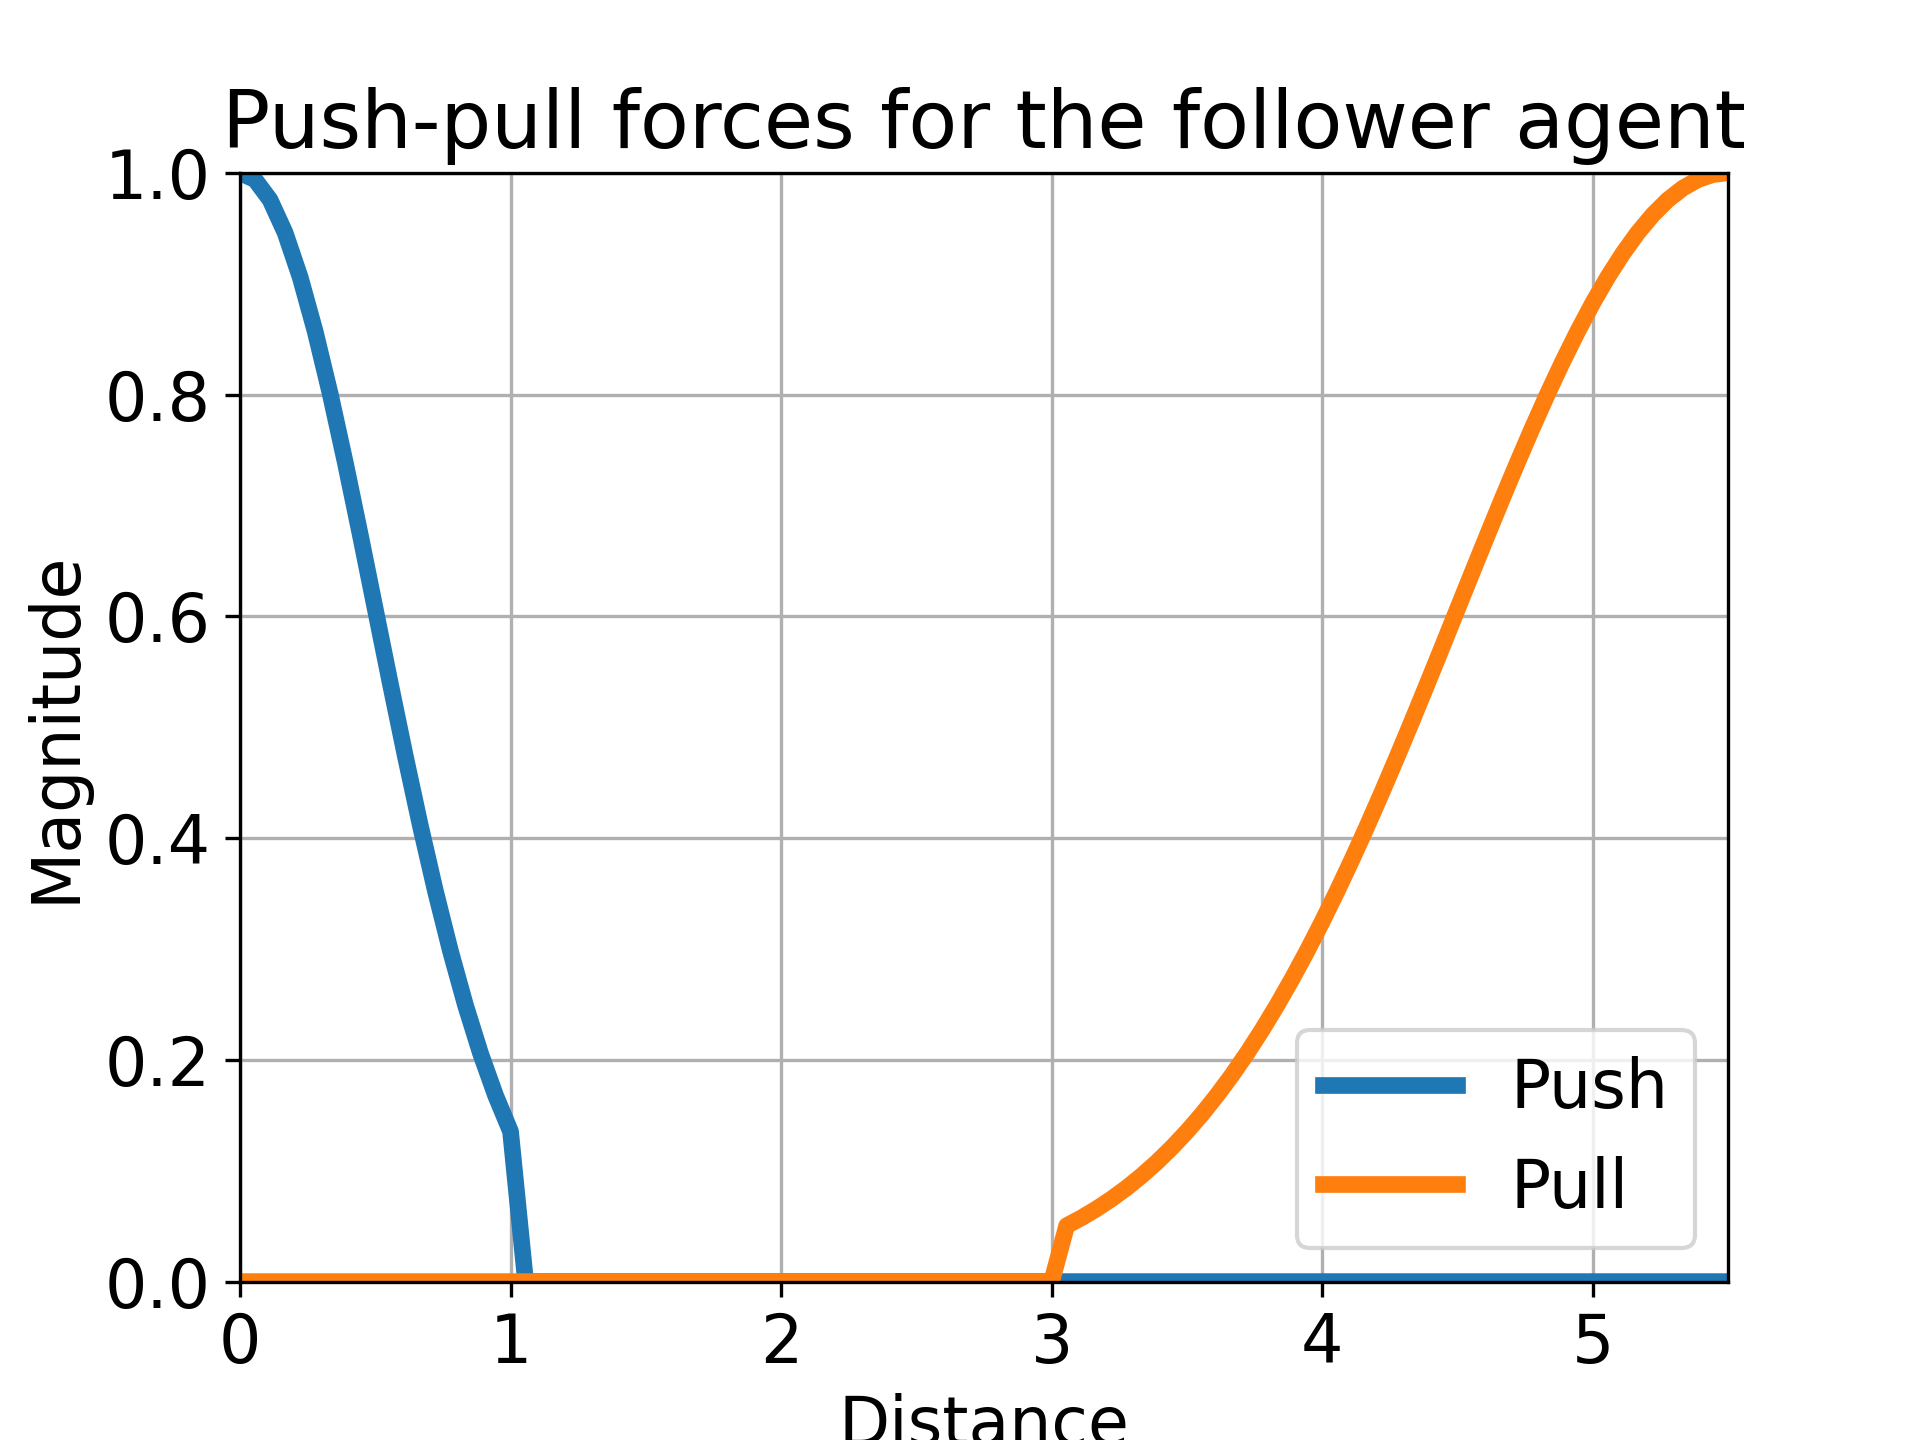
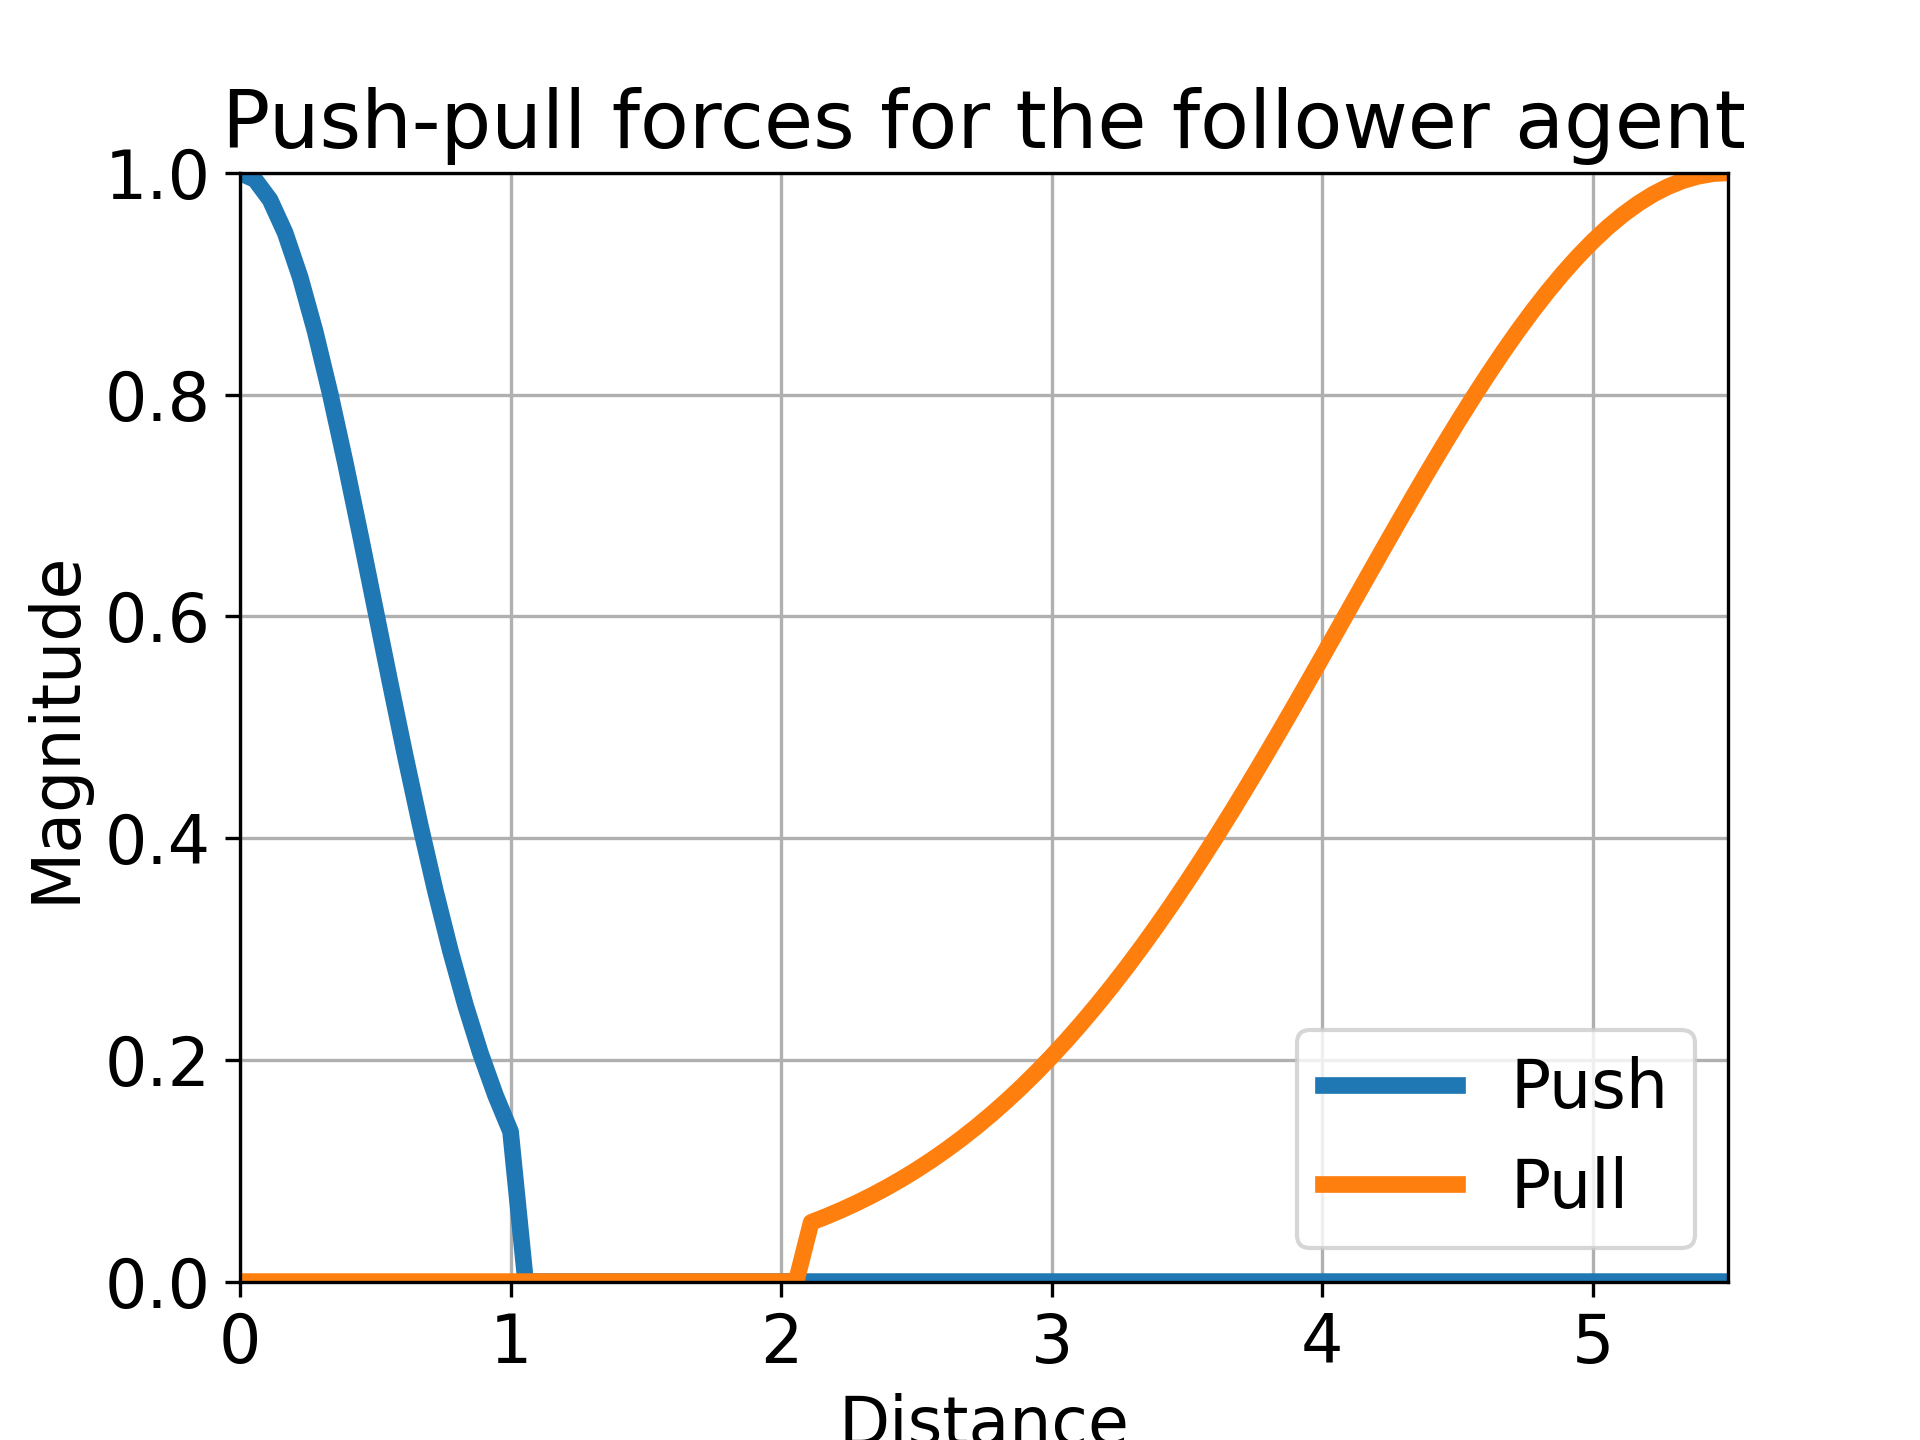
Turn left and turn right now only change the robot's orientation rather than it's orientation and position

diff --git a/experiments/controllers/footbot_follow/footbot_follow.cpp b/experiments/controllers/footbot_follow/footbot_follow.cpp
@@ -39,8 +39,7 @@ void FootbotFollow::Init(TConfigurationNode &t_node) {
                 std::make_tuple(State::WANDER, Action::STOP),
                 std::make_tuple(State::FOLLOW, Action::STOP),
                 std::make_tuple(State::DIR_LEFT, Action::STOP),
-                std::make_tuple(State::DIR_RIGHT, Action::STOP),
-                std::make_tuple(State::SEARCH, Action::STOP)
+                std::make_tuple(State::DIR_RIGHT, Action::STOP)
         };
         std::vector<std::tuple<State, Action, double>> rewards = {
                 std::make_tuple(State::WANDER, Action::FORWARD, 0.2),
@@ -105,13 +104,13 @@ void FootbotFollow::ControlStep() {
         }
     }
     fpushVector = -fpushVector;
-    fpushVector.clampLength(0, 1);
-    fpullVector.clampLength(0, 1);
+    fpushVector.clampZeroAndMax(1);
+    fpullVector.clampZeroAndMax(1);
     ql::Vector directionVector = fpullVector * ALPHA_PULL + fpushVector * BETA_PUSH;
+    directionVector.clampZeroAndMax(1);
     bool isDirZero = directionVector.isZero();
 
-    bool isWander = isDirZero && !isTargetSeen && mPrevState != State::FOLLOW;
-    bool isSearch = mPrevState == State::FOLLOW && isDirZero && !isTargetSeen;
+    bool isWander = isDirZero && !isTargetSeen;
     bool isFollow = directionVector.getAbsAngle() <= FORWARD_ANGLE && !isDirZero && !isAtGoal;
     bool isDirLeft = directionVector.getAngle() > FORWARD_ANGLE &&
                      directionVector.getAngle() <= SIDE_ANGLE && !isDirZero && !isAtGoal;
@@ -120,11 +119,9 @@ void FootbotFollow::ControlStep() {
     bool isIdle = isDirZero && isTargetSeen || isAtGoal;
 
     CColor ledColor = CColor::WHITE;
-    bool negateVelocity = false;
     if (isWander) {
         state = State::WANDER;
         ledColor = state.getLedColor();
-        negateVelocity = true;
     } else if (isFollow) {
         state = State::FOLLOW;
         if (isTargetSeen) {
@@ -145,9 +142,6 @@ void FootbotFollow::ControlStep() {
         } else {
             ledColor = CColor::GREEN;
         }
-    } else if (isSearch) {
-        state = State::SEARCH;
-        ledColor = state.getLedColor();
     }
     mLed->SetAllColors(ledColor);
     epoch++;
@@ -164,31 +158,19 @@ void FootbotFollow::ControlStep() {
             mQLearner->setLearningRate(0);
             mLearnedEpoch = epoch;
         }
-        if (mQLearner->getLearningRate() > 0.05f && epoch % 300 == 0) {
+        if (mQLearner->getLearningRate() > 0.05f && epoch % 200 == 0) {
             mQLearner->setLearningRate(mQLearner->getLearningRate() - 0.05f);
         }
 
     }
 
     Action action = (parStage == StageHelper::Stage::EXPLOIT) ? mQExploiter->exploit(state) : mQLearner->doubleQ(mPrevState, state);
-
-//    if (state == State::WANDER) {
-//        if (drand48() > 0.7f) {
-//            if (drand48() > 0.5f) {
-//                action = Action::TURN_LEFT;
-//            } else {
-//                action = Action::TURN_RIGHT;
-//            }
-//        }
-//    }
-
     mPrevState = state;
 
-    double velocityFactor = 1;
     std::array<double, 2> wheelSpeeds = action.getWheelSpeed();
 
-    wheelSpeeds[0] = wheelSpeeds[0] * parWheelVelocity * velocityFactor;
-    wheelSpeeds[1] = wheelSpeeds[1] * parWheelVelocity * velocityFactor;
+    wheelSpeeds[0] = wheelSpeeds[0] * parWheelVelocity;
+    wheelSpeeds[1] = wheelSpeeds[1] * parWheelVelocity;
 
     mDiffSteering->SetLinearVelocity(wheelSpeeds[0], wheelSpeeds[1]);
 
@@ -200,10 +182,12 @@ void FootbotFollow::ControlStep() {
             LOG << "Learning rate: " << mQLearner->getLearningRate() << std::endl;
         }
         LOG << "Id: " << this->m_strId << std::endl;
-        LOG << "Stage: " << parStage << std::endl;
         LOG << "Direction: " << directionVector.getLength() << std::endl;
-        LOG << "VelocityFactor: " << velocityFactor << std::endl;
-        LOG << "Learned epoch: " << mLearnedEpoch << std::endl;
+        LOG << "Dir angle: " << directionVector.getAngle() << std::endl;
+        LOG << "Push: " << fpushVector.getLength() * BETA_PUSH << std::endl;
+        LOG << "Push angle: " << fpushVector.getAngle() << std::endl;
+        LOG << "Pull: " << fpullVector.getLength() * ALPHA_PULL << std::endl;
+        LOG << "Pull angle: " << fpullVector.getAngle() << std::endl;
         LOG << "Action taken: " << action.getName() << std::endl;
         LOG << "State: " << state.getName() << std::endl;
         LOG << "---------------------------------------------" << std::endl;

diff --git a/experiments/controllers/footbot_follow/footbot_follow.h b/experiments/controllers/footbot_follow/footbot_follow.h
@@ -66,8 +66,8 @@ private:
 
     constexpr int static PROX_READING_PER_SIDE = 4;
 
-    constexpr double static ALPHA_PULL = 0.4f;
-    constexpr double static BETA_PUSH = 0.6f;
+    constexpr double static ALPHA_PULL = 0.5f;
+    constexpr double static BETA_PUSH = 0.5f;
 
     // The push gauss curve's centre point is the robot
     constexpr double static B_PUSH = 0.0f;
@@ -76,7 +76,7 @@ private:
     // Width of the gauss curve for pushing forces
     constexpr double static C_PUSH = 0.5;
     // Width of the gauss curve for pulling forces
-    constexpr double static C_PULL = 1.2f;
+    constexpr double static C_PULL = 1.4f;
     // Height of the gauss curve
     constexpr double static A = 1.0f;
 

diff --git a/experiments/qlearner/action.hpp b/experiments/qlearner/action.hpp
@@ -55,10 +55,8 @@ namespace ql {
     };
 
     Action Action::STOP("STOP", 0, {0.0f, 0.0f});
-    Action Action::TURN_LEFT("TURN_LEFT", 1, {0.0f, 1.0f});
-    Action Action::TURN_RIGHT("TURN_RIGHT", 2, {1.0f, 0.0f});
+    Action Action::TURN_LEFT("TURN_LEFT", 1, {-0.5f, 0.5f});
+    Action Action::TURN_RIGHT("TURN_RIGHT", 2, {0.5, -0.5f});
     Action Action::FORWARD("FORWARD", 3, {1.0f, 1.0f});
-    Action Action::TURN_LEFT_SOFT("TURN_LEFT_SOFT", 4, {0.0f, 0.5f});
-    Action Action::TURN_RIGHT_SOFT("TURN_RIGHT_SOFT", 5, {0.5f, 0.0f});
 }
 #endif

diff --git a/experiments/qlearner/vector.hpp b/experiments/qlearner/vector.hpp
@@ -24,12 +24,12 @@ namespace ql {
             return this->length <= 0.01;
         }
 
-        void clampLength(const double minBound, const double maxBound) {
+        void clampZeroAndMax(const double maxBound) {
             if (this->length > maxBound) {
                 this->length = maxBound;
             }
-            if (this->length < minBound) {
-                this->length = minBound;
+            if (this->isZero()) {
+                this->length = 0;
             }
         }
 

diff --git a/experiments/controllers/footbot_leader/footbot_leader.cpp b/experiments/controllers/footbot_leader/footbot_leader.cpp
@@ -110,7 +110,7 @@ void FootbotLeader::ControlStep() {
 
     fpushVector = -fpushVector;
     ql::Vector directionVector = fpullVector + fpushVector;
-    directionVector.clampLength(0.01, 1);
+    directionVector.clampZeroAndMax(1);
 
     bool isDirZero = QLMathUtils::closeToZero(directionVector.getLength());
     bool isTargetSeen = !QLMathUtils::closeToZero(maxLight);

diff --git a/proto/plots/plot_push_pull.py b/proto/plots/plot_push_pull.py
@@ -15,7 +15,7 @@ mpl.rcParams['lines.linewidth'] = 4
 B_PUSH = 0  # The robot's centre
 B_PULL = 5.5
 C_PUSH = 0.5  # width of the gauss curve
-C_PULL = 1.0
+C_PULL = 1.4
 cut_off = 0.05
 A = 1  # height of the gauss curve
 x_plt = np.linspace(0, B_PULL, num=100)

diff --git a/experiments/qlearner/state.hpp b/experiments/qlearner/state.hpp
@@ -49,6 +49,5 @@ namespace ql {
     State State::DIR_LEFT("DIR_LEFT", CColor::WHITE, 2);
     State State::DIR_RIGHT("DIR_RIGHT", CColor::WHITE, 3);
     State State::IDLE("IDLE", CColor::RED, 4);
-    State State::SEARCH("SEARCH", CColor::CYAN, 5);
 }
 #endif
